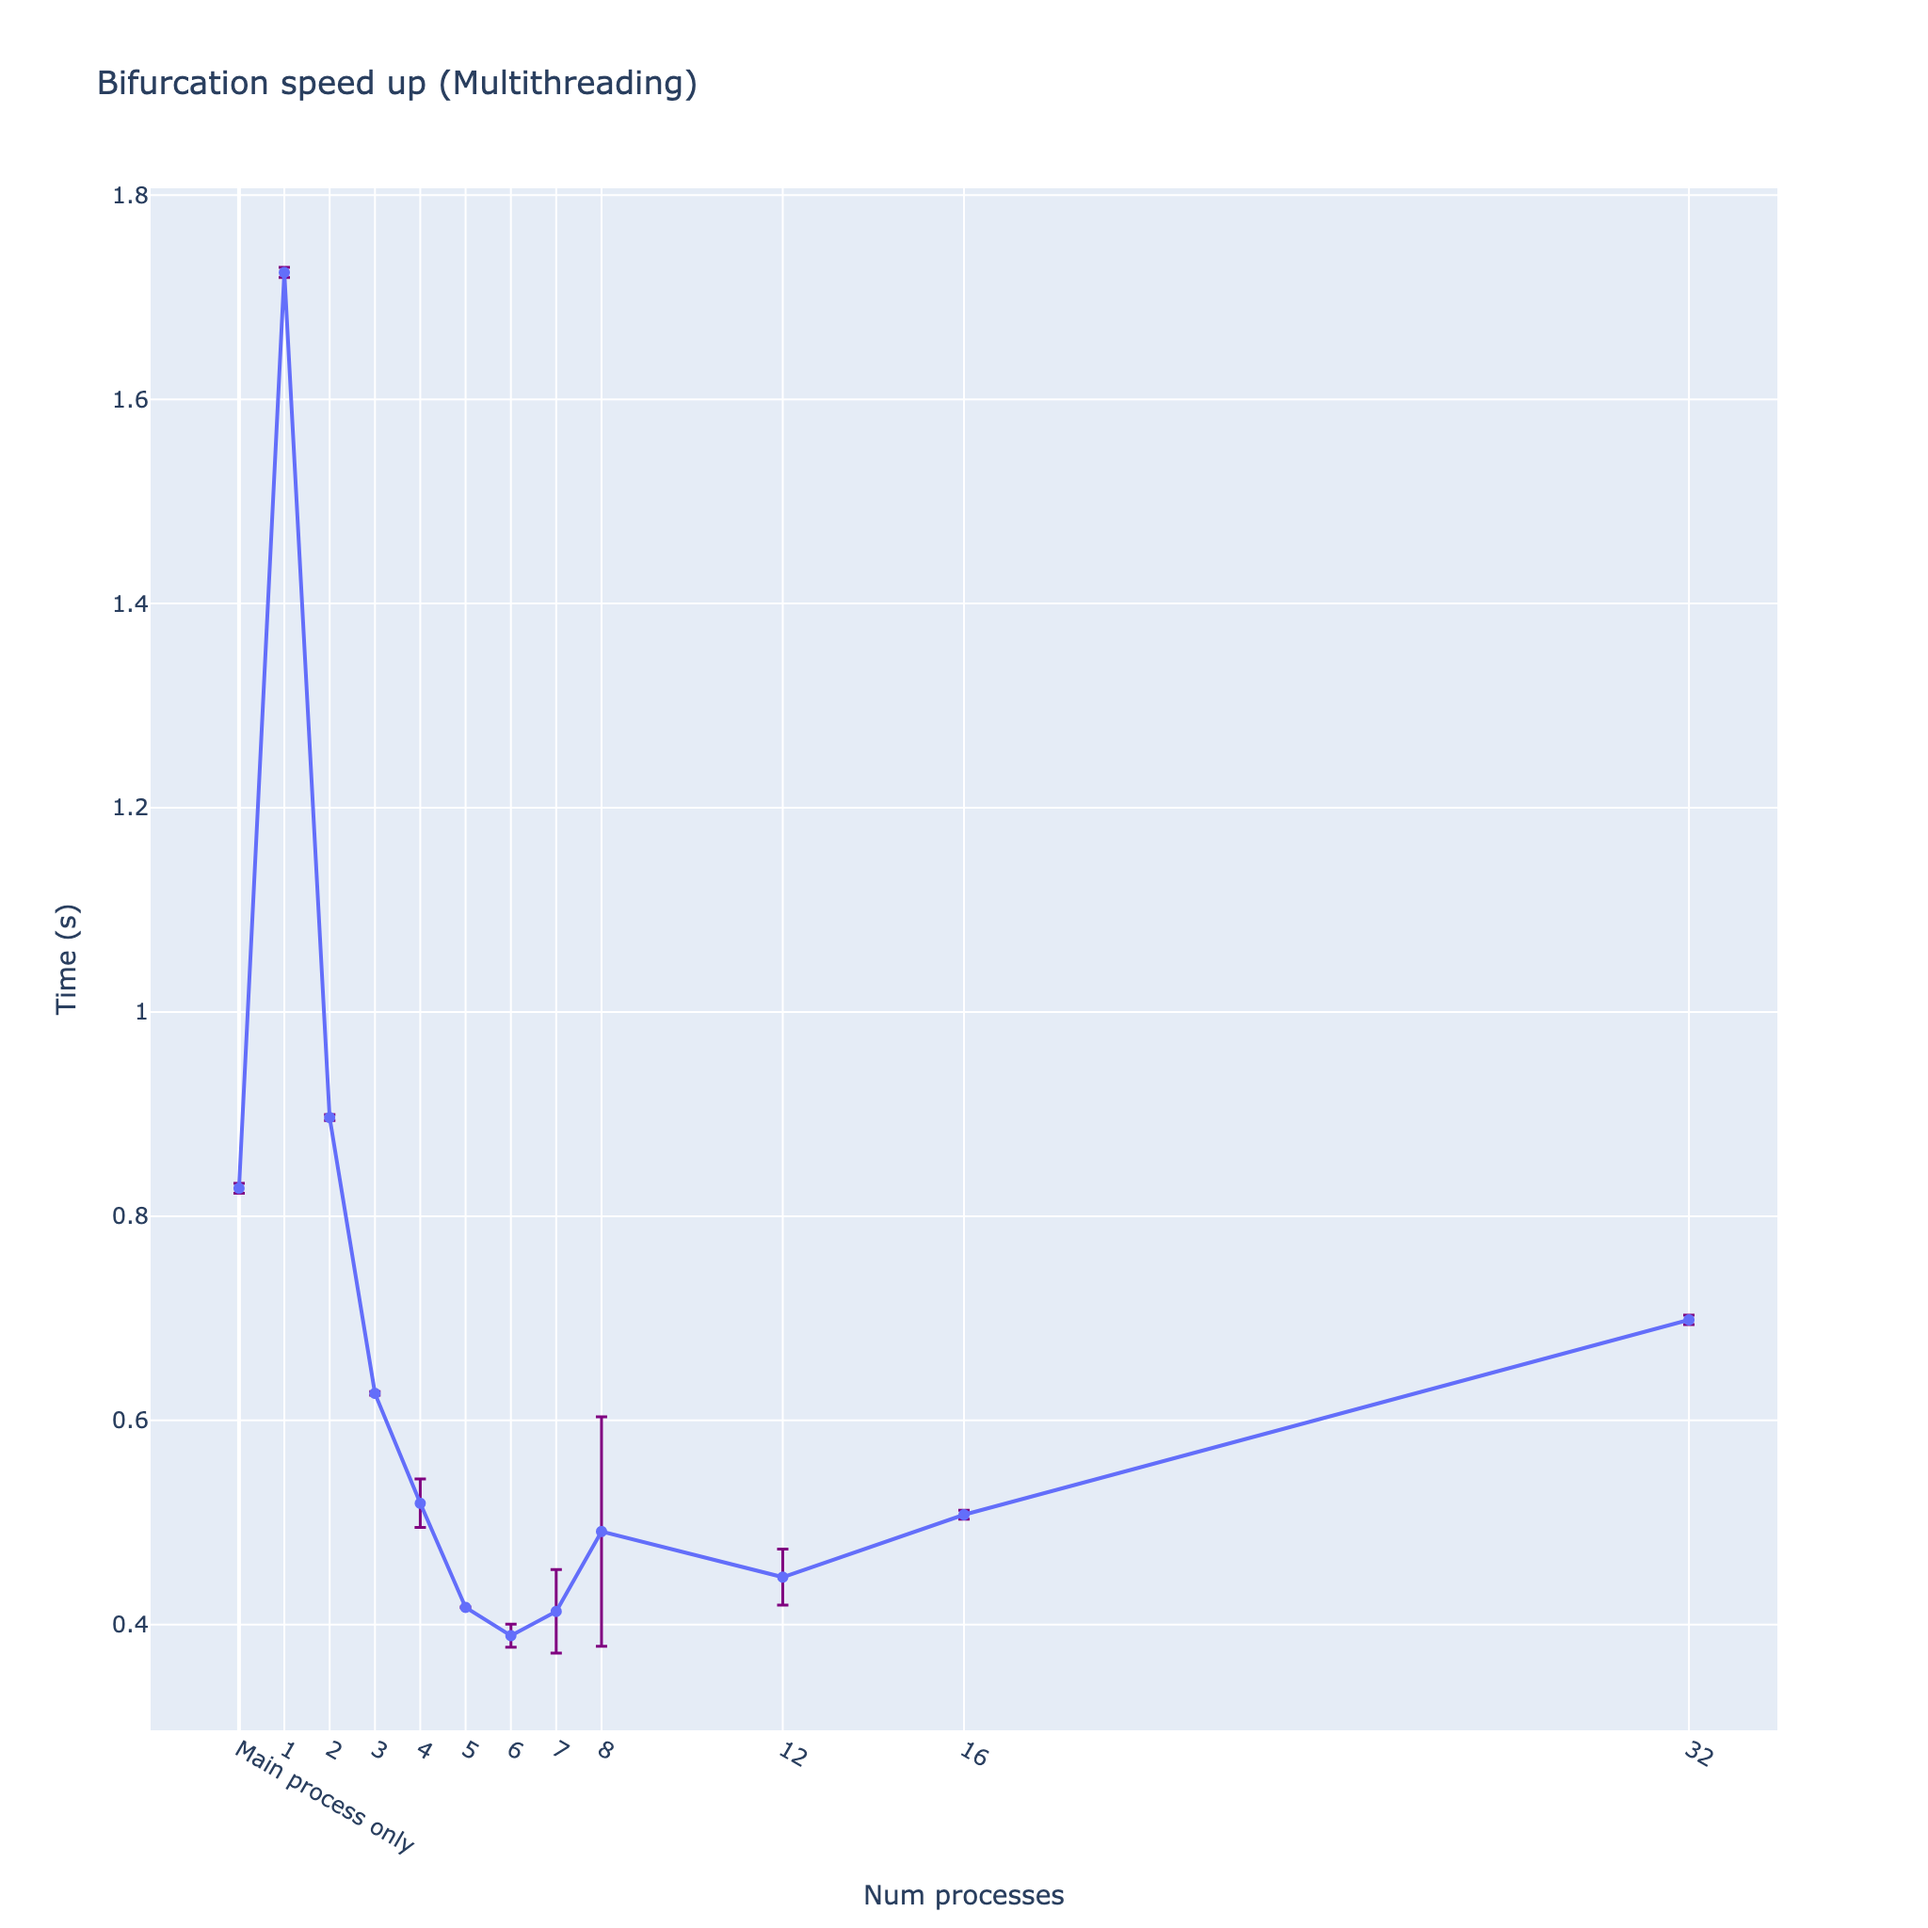
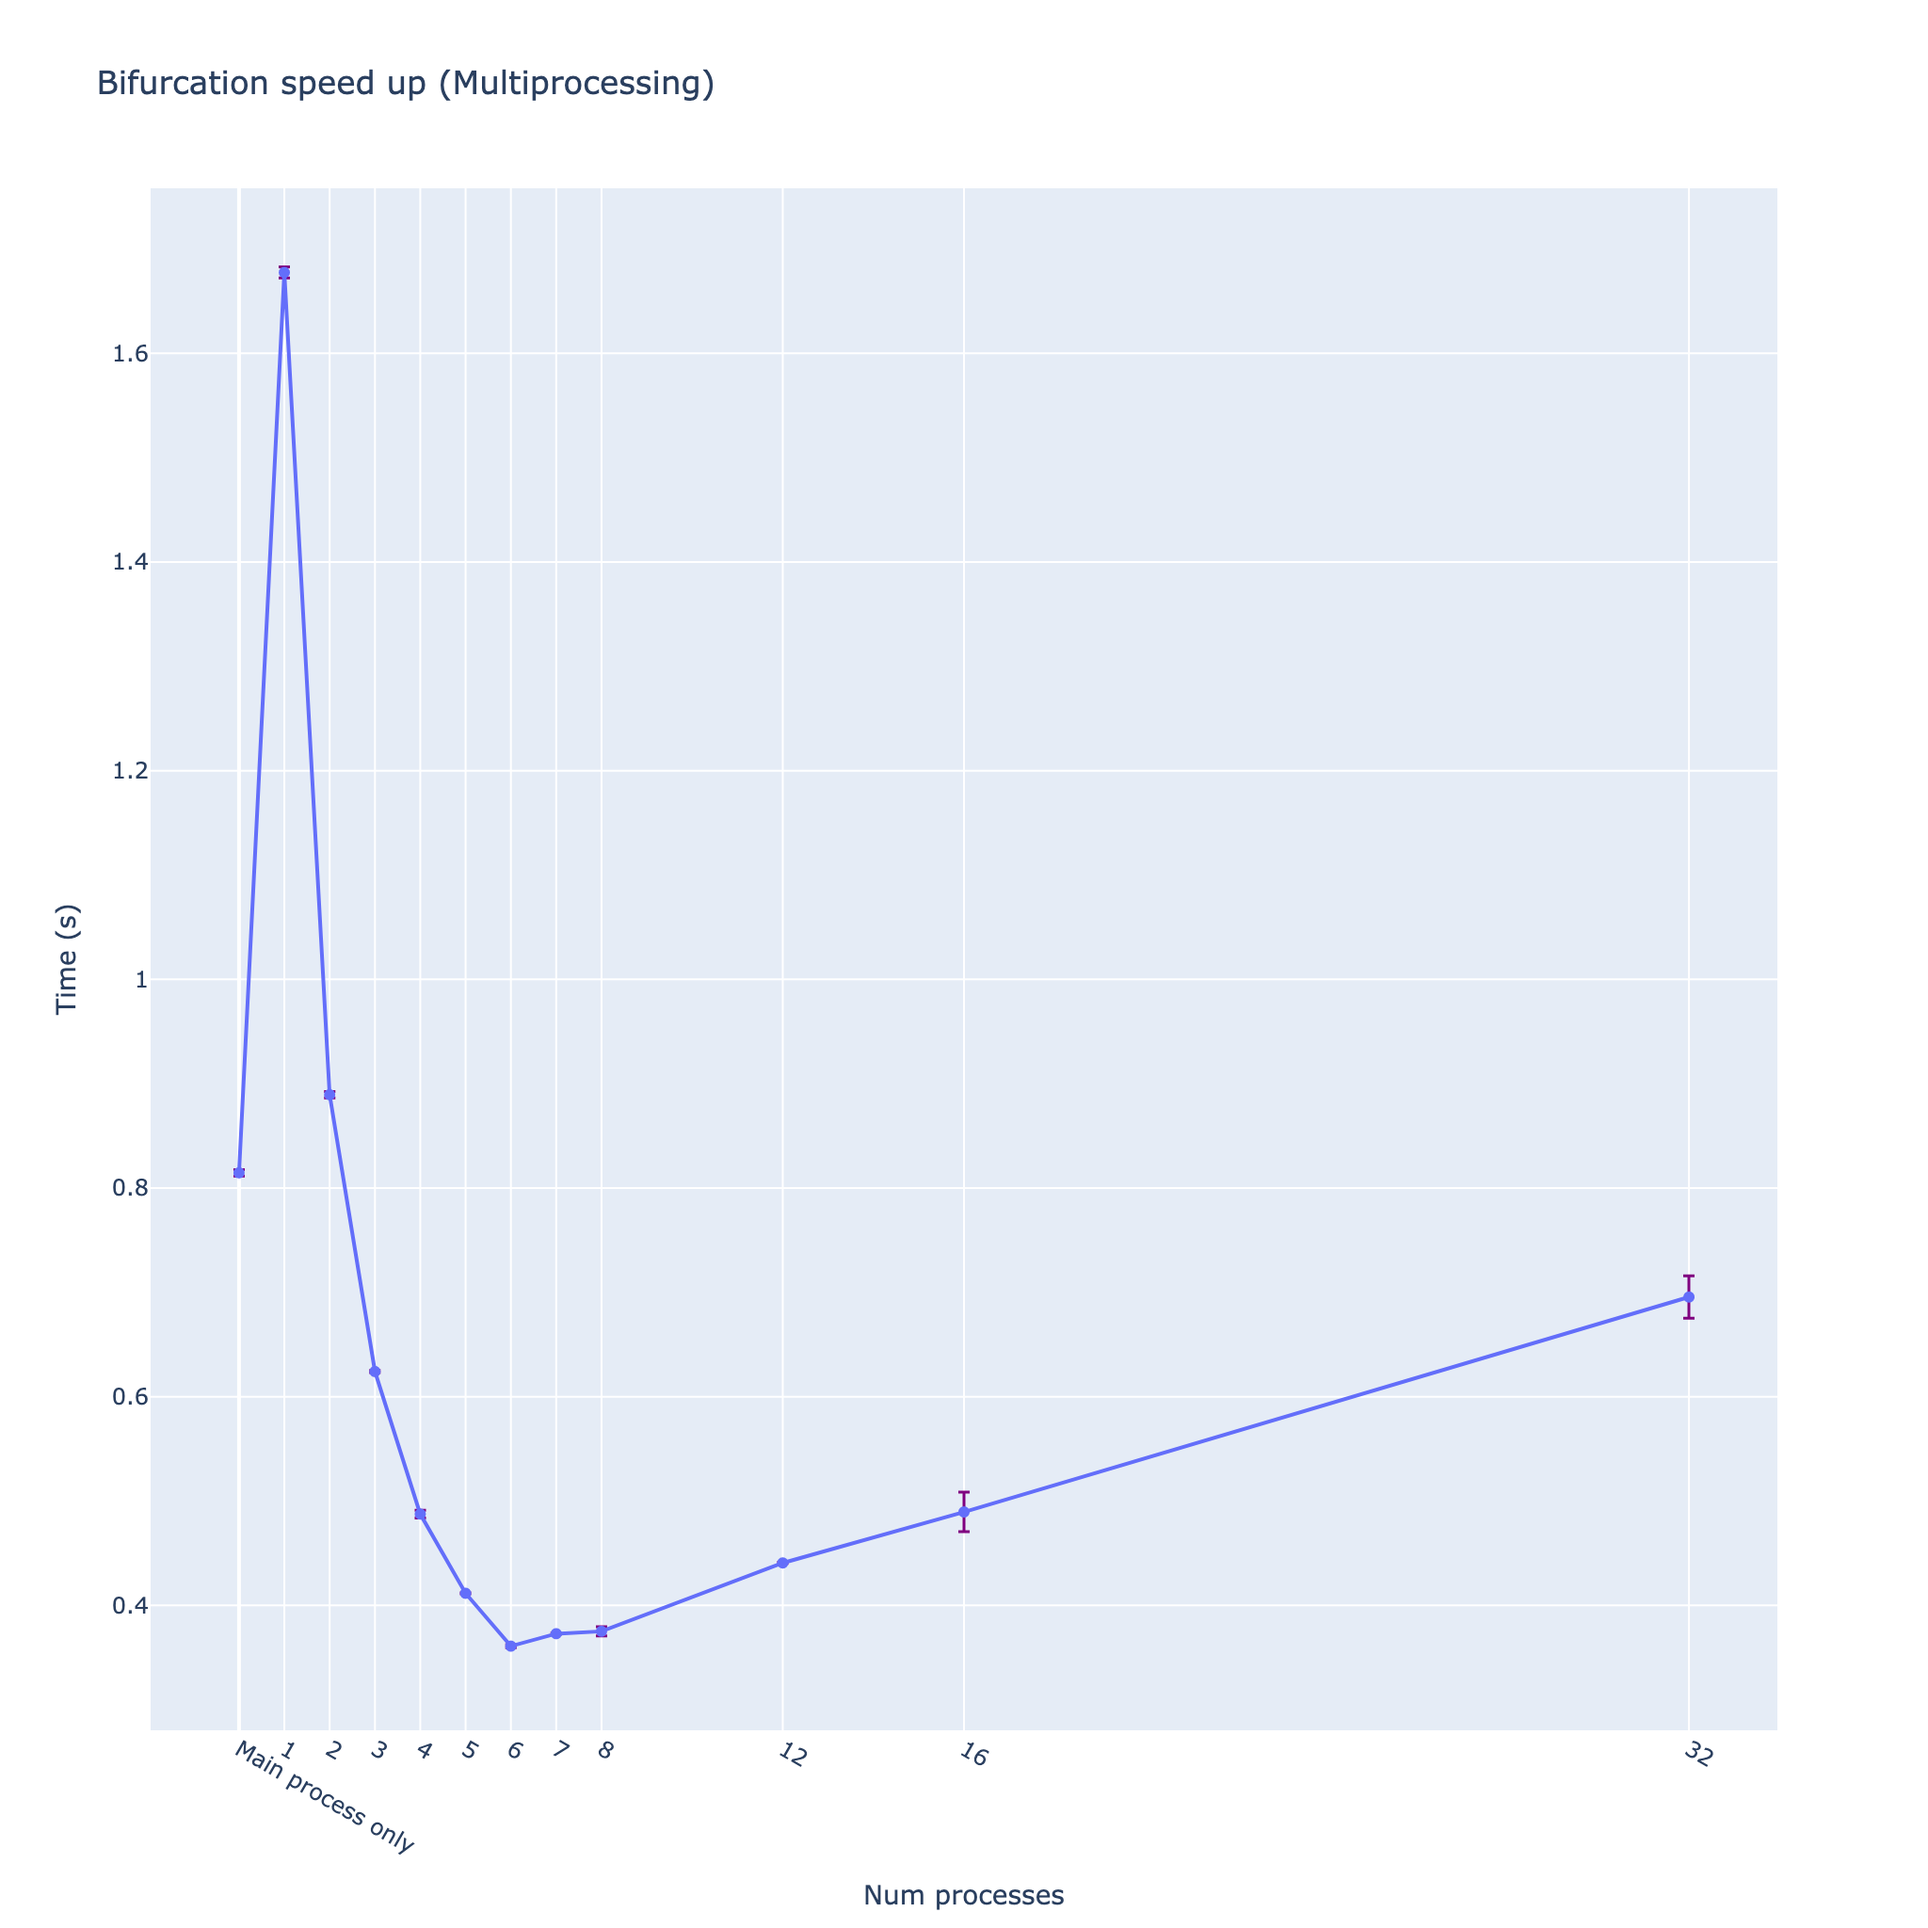
-- hw5

diff --git a/hw5/main.py b/hw5/main.py
@@ -58,7 +58,7 @@ def speedup_for_bifurcation():
                          array=std_time, color='purple',
                          thickness=1.5, width=3)
         ),
-        layout_title='Bifurcation speed up (Multithreading)',
+        layout_title='Bifurcation speed up (Multiprocessing)',
         layout_yaxis_title='Time (s)',
         layout_xaxis_title='Num processes'
     )

diff --git a/hw5/README.MD b/hw5/README.MD
@@ -22,4 +22,4 @@ Bifurcation for Multiprocessing and Single Process:
 
 Spectrogram for Multiprocessing and Single Process:
 
-<img src="out/2_spectrogram_num_threads=0.png" width=512 height=512> <img src="out/2_spectrogram_num_threads=8.png" width=512 height=512>
+<img src="out/2_spectrogram_num_threads=0.png" width=512 height=256> <img src="out/2_spectrogram_num_threads=8.png" width=512 height=256>
